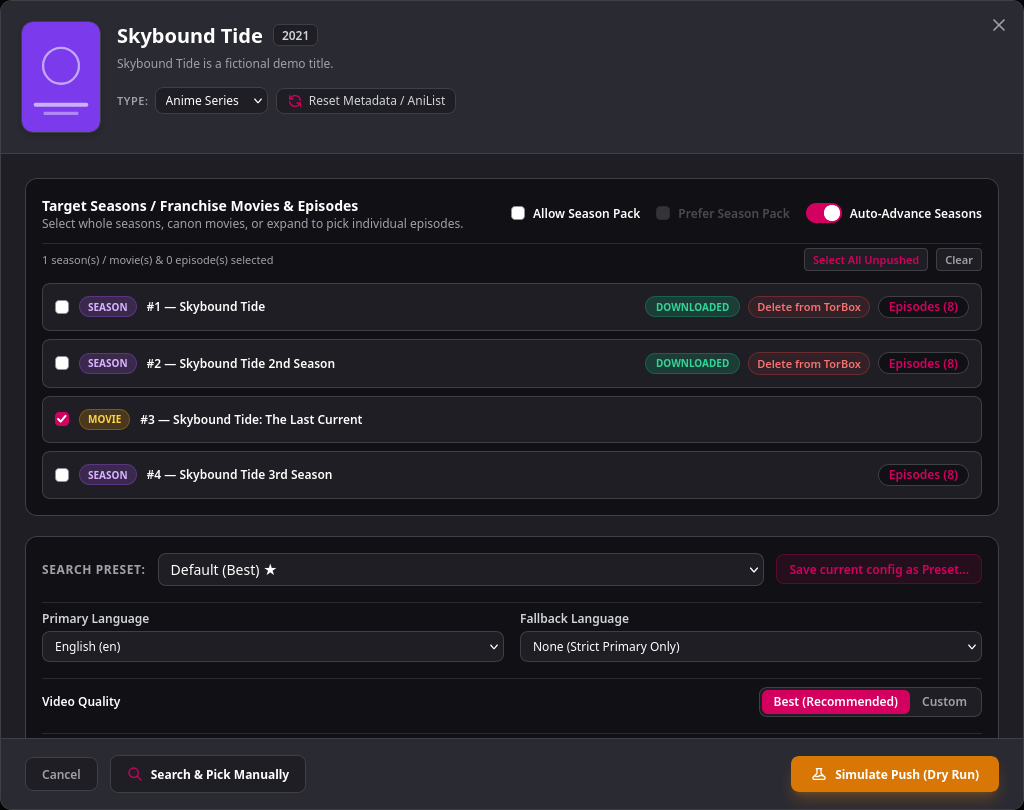
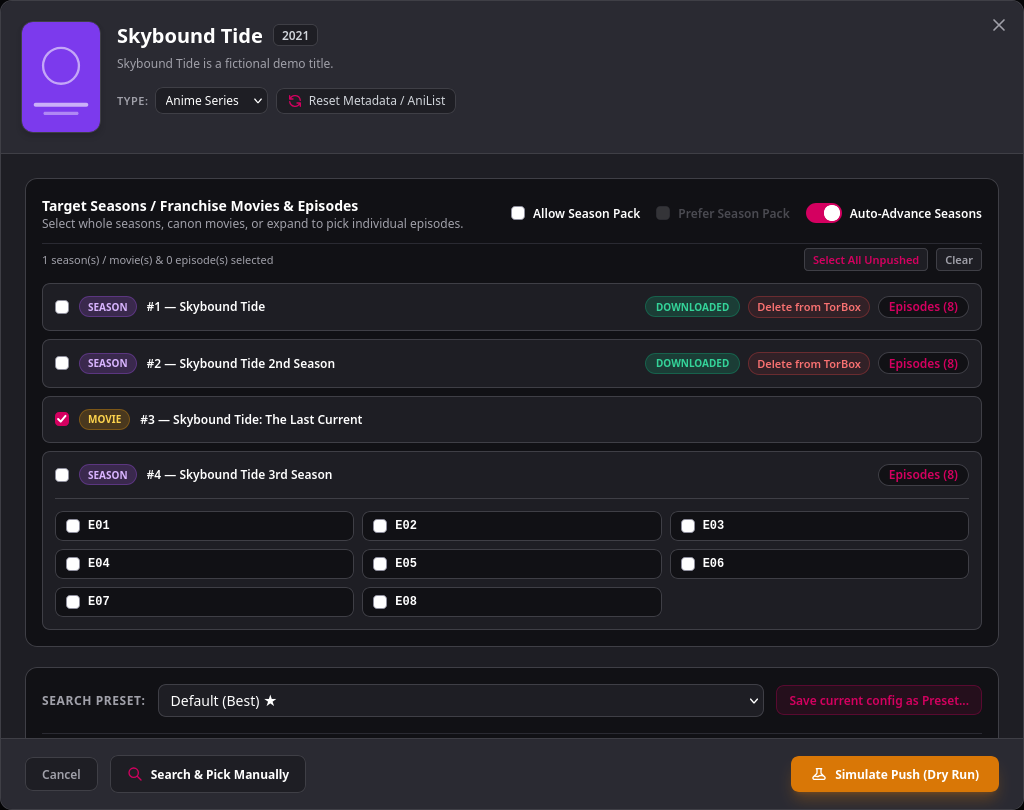
docs: refresh screenshots with Smewlet branding (m77-13)

Changed region(s): [[0.0312, 0.6173, 0.9688, 0.8951], [0.7188, 0.8333, 0.9688, 0.8951]]

diff --git a/README.md b/README.md
@@ -51,7 +51,7 @@ It keeps your **Movies**, **TV Series** and **Anime** in sync with your watchlis
 <table>
   <tr>
     <td width="50%"><img src="screenshots/push-modal.png" alt="Push modal with scored releases" /><br /><sub><b>Push modal:</b> scored releases, presets and language rules</sub></td>
-    <td width="50%"><img src="screenshots/anime-franchise.png" alt="Anime franchise push modal" /><br /><sub><b>Anime franchises:</b> pick seasons, movies or single episodes</sub></td>
+    <td width="50%"><img src="screenshots/anime-franchise.png" alt="Anime franchise push modal" /><br /><sub><b>Anime franchises:</b> pick whole seasons, canon movies, or expand a season for single episodes</sub></td>
   </tr>
   <tr>
     <td><img src="screenshots/active-pushes.png" alt="Live transfer monitor" /><br /><sub><b>Live transfer monitor:</b> progress, speed and ETA per transfer</sub></td>
